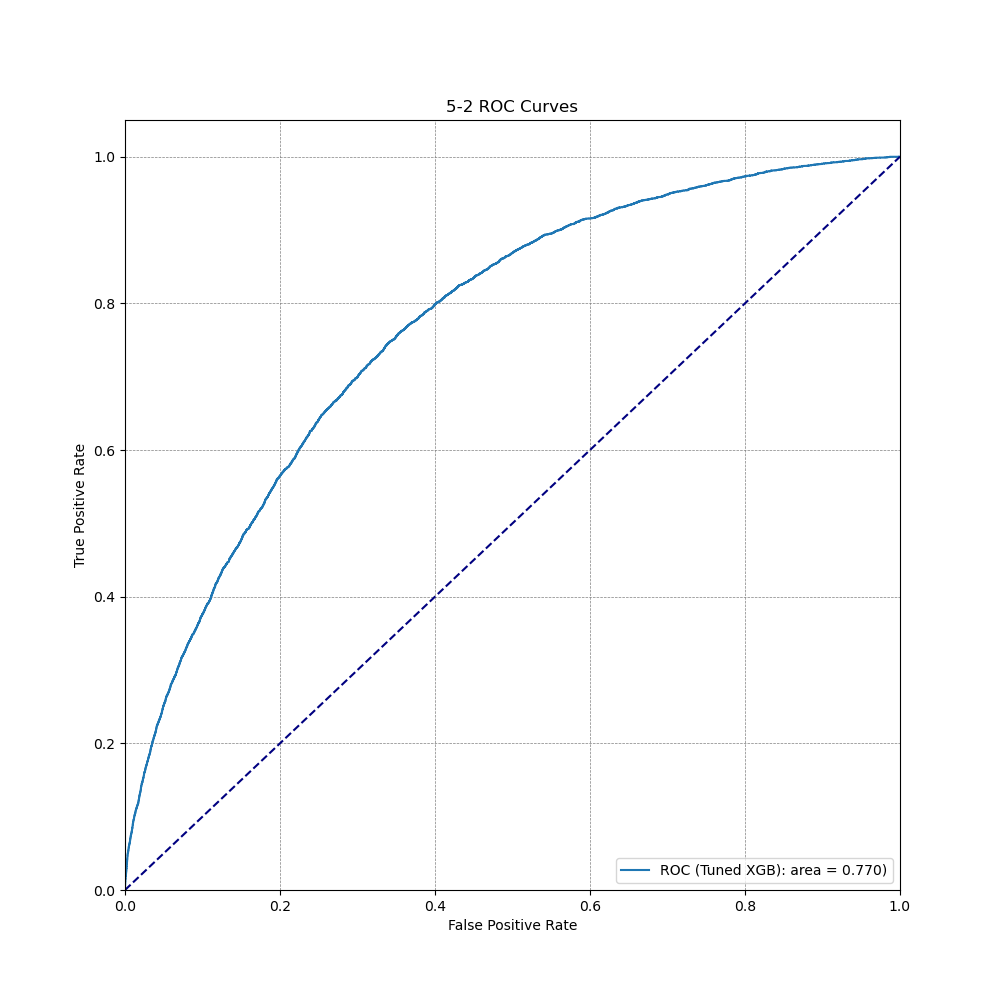
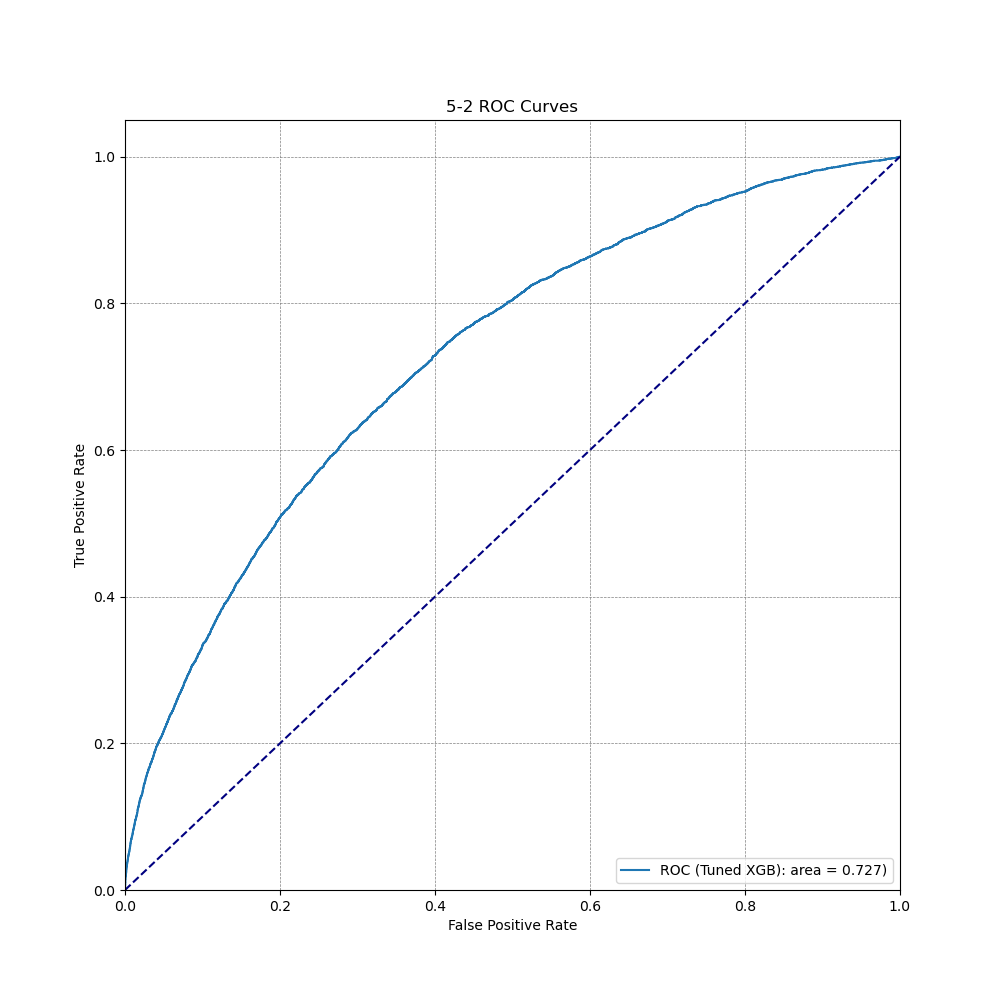
Final state

diff --git a/ift6758/models/xgb/5_3.py b/ift6758/models/xgb/5_3.py
@@ -127,8 +127,13 @@ def main():
                 'speed_since_prev_event','shot_distance','shot_angle',
                 'change_in_angle','shot_type','prev_event_type']
     
-    df_X, df_y = load_data(feature,do_split_val=False,one_hot_encode_categoricals=True)
-    
+    df_X, df_y,_,_ = load_data(feature, do_split_val=False, one_hot_encode_categoricals=True)
+    params = {'objective': 'binary:logistic', 'use_label_encoder': True, 'base_score': 0.5, 'booster': 'gbtree',
+     'colsample_bylevel': 1, 'colsample_bynode': 1, 'colsample_bytree': 1, 'gamma': 0, 'gpu_id': -1,
+     'importance_type': 'gain', 'interaction_constraints': '', 'learning_rate': 0.300000012, 'max_delta_step': 0,
+     'max_depth': 6, 'min_child_weight': 1, 'monotone_constraints': '()', 'n_estimators': 100,
+     'n_jobs': 4, 'num_parallel_tree': 1, 'random_state': 0, 'reg_alpha': 0, 'reg_lambda': 1, 'scale_pos_weight': 1,
+     'subsample': 1, 'tree_method': 'exact', 'validate_parameters': 1, 'verbosity': None}
     xgb_model = XGBClassifier(
             min_child_weight =  1,
             gamma            =  0.5,
@@ -150,12 +155,12 @@ def main():
     y = df_y.to_numpy()
     shap_feature(X, y, xgb_model)
     
-    experiment = Experiment(
-        api_key=COMET_API_KEY,
-        project_name="ift-6758-milestone-2",
-        workspace="vanbinhtruong",
-    )
-    experiment.log_metrics(result)
+    # experiment = Experiment(
+    #     api_key=COMET_API_KEY,
+    #     project_name="ift-6758-milestone-2",
+    #     workspace="vanbinhtruong",
+    # )
+    # experiment.log_metrics(result)
     
     print('result is = ',result)
 if __name__ == "__main__":

diff --git a/ift6758/models/xgb/5_2.py b/ift6758/models/xgb/5_2.py
@@ -52,10 +52,11 @@ def objective(trial):
         "scale_pos_weight": trial.suggest_categorical("scale_pos_weight", [1, 25, 50, 75, 99, 1000]),
         "lambda": trial.suggest_loguniform("lambda", 1e-8, 1.0),
         "alpha": trial.suggest_loguniform("alpha", 1e-8, 1.0),
+        "n_estimators": trial.suggest_int("n_estimators", 100, 5000)
     }
 
     if param_grid["booster"] == "gbtree" or param_grid["booster"] == "dart":
-        param_grid["max_depth"] = trial.suggest_int("max_depth", 1, 9)
+        param_grid["max_depth"] = trial.suggest_int("max_depth", 1, 12)
         param_grid["eta"] = trial.suggest_loguniform("eta", 1e-8, 1.0)
         param_grid["gamma"] = trial.suggest_loguniform("gamma", 1e-8, 1.0)
         param_grid["grow_policy"] = trial.suggest_categorical("grow_policy", ["depthwise", "lossguide"])
@@ -141,7 +142,7 @@ def main():
     '''
     study = optuna.create_study(direction="maximize", study_name="XGB Classifier")
     func = lambda trial: objective(trial)
-    study.optimize(func, n_trials=20)
+    study.optimize(func, n_trials=50)
     print(f"\tBest params:")
 
     pprint(study.best_params)
@@ -163,10 +164,9 @@ def main():
         project_name="ift-6758-milestone-2",
         workspace="axelbogos",
     )
-    # model = XGBClassifier(objective='binary:logistic', **params)
+    model = XGBClassifier(objective='binary:logistic', **params)
     X_train = X_train.drop(columns=X_train.columns.difference(X_test.columns))
     X_test = X_test.drop(columns=X_test.columns.difference(X_train.columns))
-    model = XGBClassifier()
     model.fit(X_train, y_train)
 
     y_pred = model.predict_proba(X_test)[:, 1]
